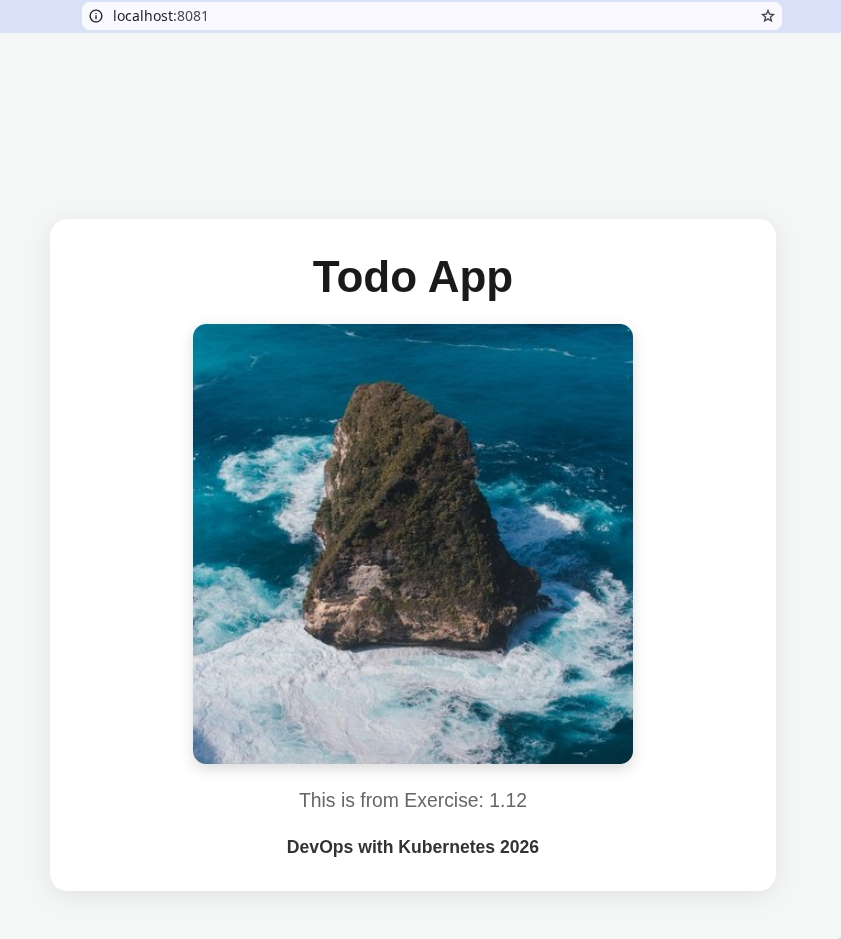
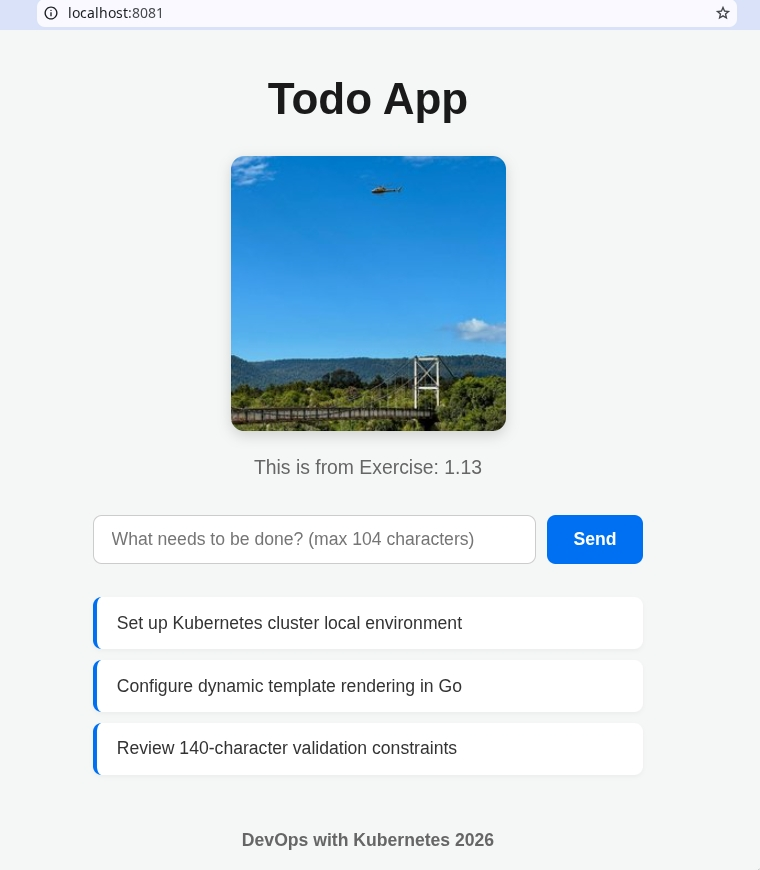
completed: 1.13. The project, step 7 exercise

diff --git a/todo-app/main.go b/todo-app/main.go
@@ -22,7 +22,7 @@ var currentImage = &Image{}
 
 const (
 	pathname = "./image.jpg"
-	url      = "https://placeholdpicsum.dev/photo/category/nature/400/400"
+	url      = "https://placeholdpicsum.dev/photo/category/nature/250/250"
 )
 
 type Image struct {
@@ -66,7 +66,7 @@ func homeHandler(w http.ResponseWriter, r *http.Request) {
 
 	data := PageData{
 		Title:   "Todo App",
-		Message: "This is from Exercise: 1.12",
+		Message: "This is from Exercise: 1.13",
 		Image:   "/image.jpg", // the route pointing to our handler above
 	}
 